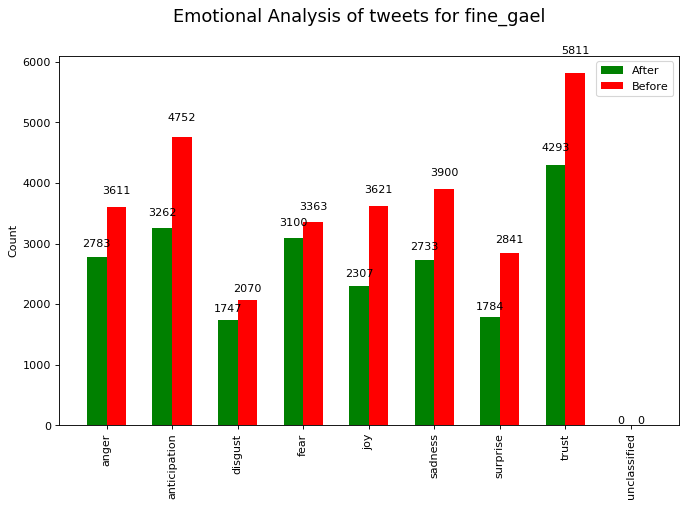
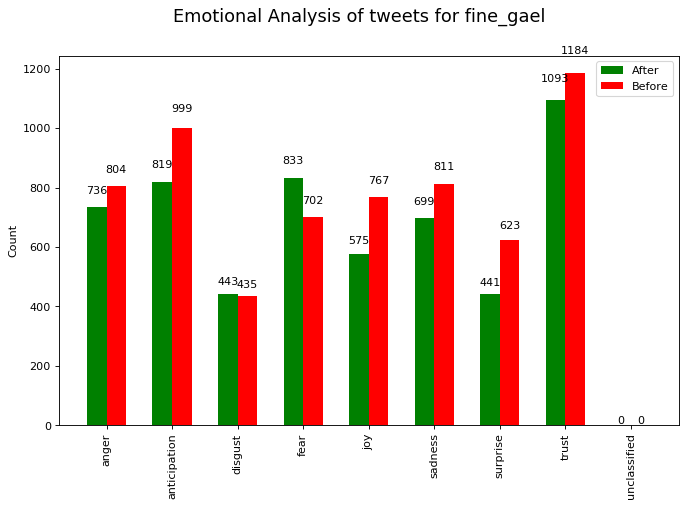
Added emotions per party jsons and graph for positive emos

diff --git a/Sentimentalysis/TwitterManager/Analyzer.py b/Sentimentalysis/TwitterManager/Analyzer.py
@@ -21,7 +21,7 @@ nltk.download('punkt')
 nltk.download('wordnet')
 nltk.download('averaged_perceptron_tagger')
 nltk.download('stopwords')
-
+import random
 root_path = pathlib.Path(__file__).parents[1]
 
 def lemmatize_sentence(tokens):
@@ -125,18 +125,31 @@ def plot_emotion_graphs(emotions_after, emotions_before, name):
 
 def main():
     
-    twitterati = TwitterManager('C:\\Users\\SIDDHARTHA\\Trinity\\TextAnalysis\\TextAnalysis\\GetOldTweets3\\Datasets')
+    twitterati = TwitterManager('C:\\Users\\SIDDHARTHA\\Trinity\\TextAnalysis\\TextAnalysis\\GetOldTweets3\\Datasets\\parties')
     all_tweets = twitterati.get_tweets()
     all_tweets_tokens = twitterati.get_tweet_tokens()
-
+    limit=1500
     print('Total comparable entities: ',len(all_tweets))
     pbar=ProgressBar()
     for item in pbar(all_tweets_tokens.keys()):
         after_tweets = all_tweets_tokens[item]['after']
         before_tweets = all_tweets_tokens[item]['before']
-        print('%s has %d tweets after the election and %d tweets before the election' %(item,len(after_tweets),len(before_tweets)))
+        print('Before cleaning:: %s has %d tweets after the election and %d tweets before the election' %(item,len(after_tweets),len(before_tweets)))
+        after_tweets_no_dup = []
+        before_tweets_no_dup = []
+        [after_tweets_no_dup.append(x) for x in after_tweets if x not in after_tweets_no_dup] 
+        [before_tweets_no_dup.append(x) for x in before_tweets if x not in before_tweets_no_dup] 
+        after_tweets=after_tweets_no_dup
+        before_tweets=before_tweets_no_dup
+        print('After cleaning:: %s has %d tweets after the election and %d tweets before the election' %(item,len(after_tweets),len(before_tweets)))
+        print('Randomizing.....')
+        if len(after_tweets)>limit: 
+            after_tweets=random.sample(after_tweets,limit)
+        if len(before_tweets)>limit:
+            before_tweets=random.sample(before_tweets,limit)
 
-    
+        print('After randomizing:: %s has %d tweets after the election and %d tweets before the election' %(item,len(after_tweets),len(before_tweets)))
+        
         #Cleaning tokens
         
         after_cleaned_tokens_list = []
@@ -175,6 +188,8 @@ def main():
 
 
         print(emotions_count_dict_after)
+        dump_file_name="emotions_"+item+"_after.json"
+        twitterati.dump_to_json('jsons',dump_file_name,emotions_count_dict_after)
         print(pos_count)
 
 
@@ -195,6 +210,8 @@ def main():
 
 
         print(emotions_count_dict_before)
+        dump_file_name="emotions_"+item+"_before.json"
+        twitterati.dump_to_json('jsons',dump_file_name,emotions_count_dict_after)
         print(neg_count)
     
 
